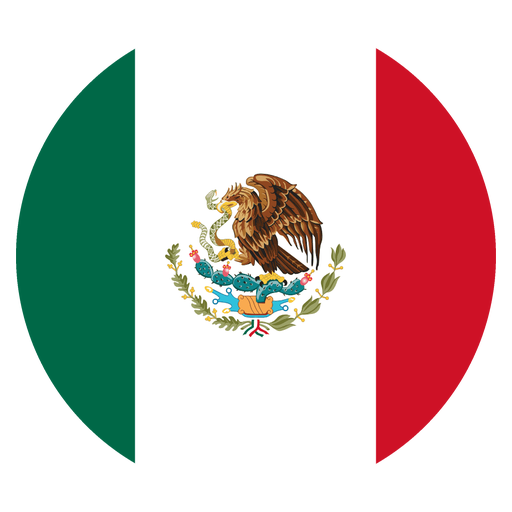
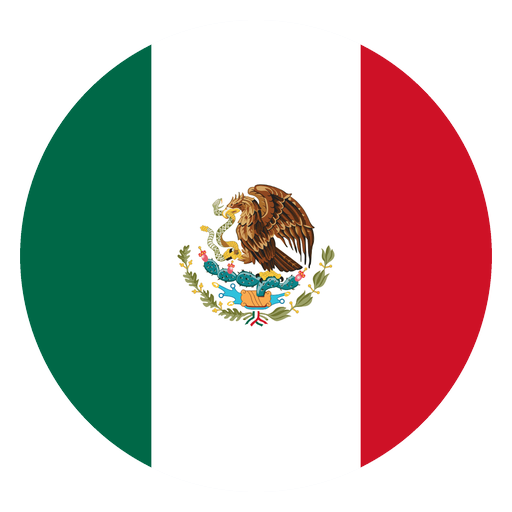
fix(ui): match AR/MX/US flag halo and reduce crop zoom
Regenerate circular Argentina/Mexico/USA badges with a clearer
transparent ring (like Chile/Peru) and a wider crop so stars/emblem
read less zoomed on the landing grid. Slightly deepen flag-btn fill
so the halo shows through.

diff --git a/index.html b/index.html
@@ -469,7 +469,8 @@
       height: 72px;
       border-radius: 50%;
       border: 2px solid rgba(255, 255, 255, 0.42);
-      background: rgba(0, 0, 0, 0.2);
+      /* Se ve a través del margen transparente de las PNGs circulares (= halo) */
+      background: rgba(0, 0, 0, 0.28);
       box-shadow: 0 4px 16px rgba(0, 0, 0, 0.35);
       display: flex;
       align-items: center;
@@ -488,6 +489,7 @@
       height: 100%;
       object-fit: cover;
       border-radius: 50%;
+      display: block;
     }
 
     .flag-btn.is-disabled {
